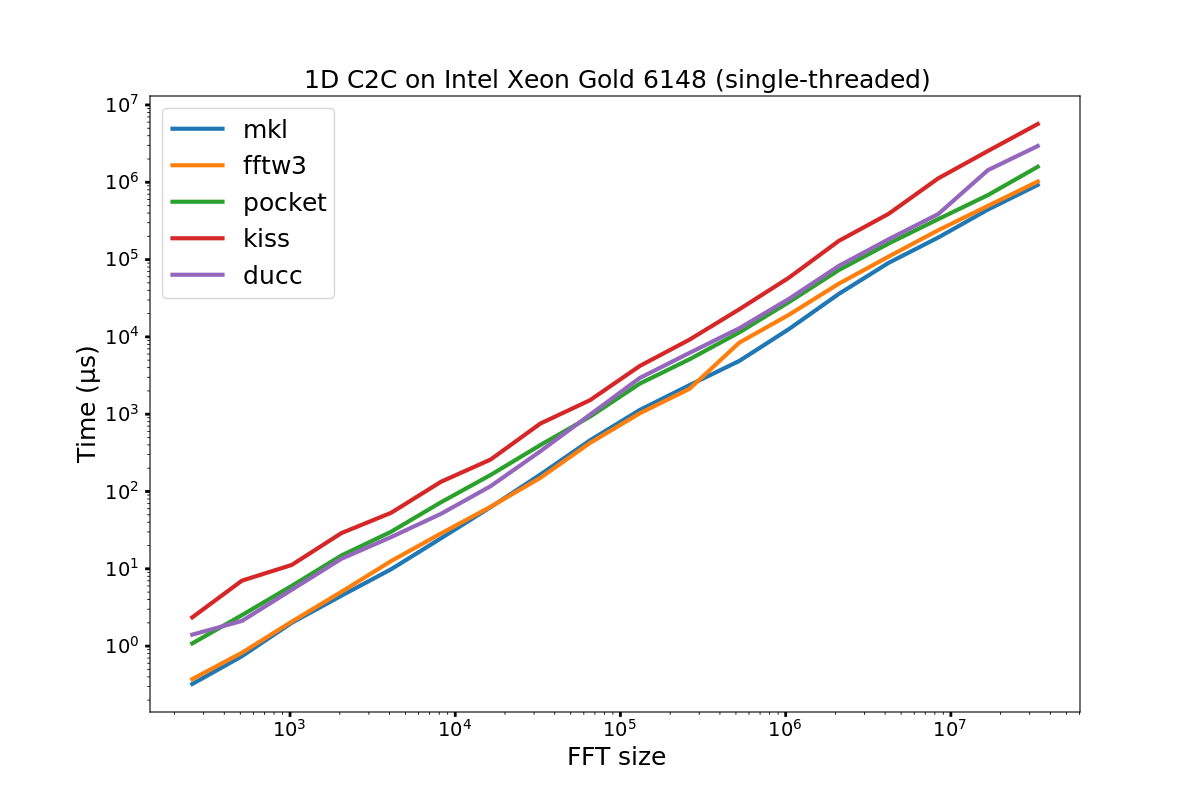
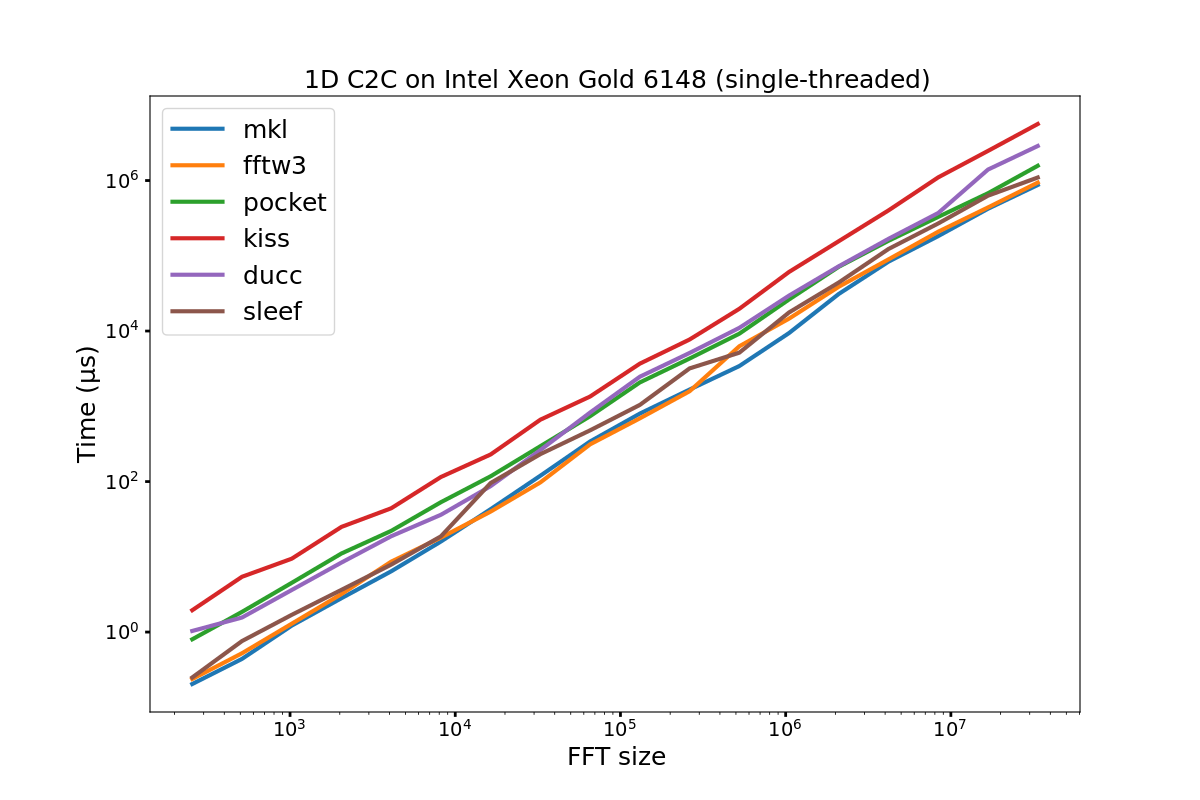
Add sleef benchmarks

diff --git a/fi/collect_results.py b/fi/collect_results.py
@@ -16,7 +16,7 @@ mainfont = {
 }
 
 arches = ['rome', 'skylake', 'icelake']
-implementations = ['mkl', 'fftw3', 'mkl-omp', 'fftw3-omp', 'pocket', 'kiss', 'ducc', 'ducc-omp']
+implementations = ['mkl', 'fftw3', 'mkl-omp', 'fftw3-omp', 'pocket', 'kiss', 'ducc', 'ducc-omp', 'sleef', 'sleef-omp']
 
 cpu_data = {
     'rome': 'AMD EPYC 7742',
@@ -54,6 +54,7 @@ def plot_st_dim(dim: int):
             sizes, _, timings = params
             if len(sizes):
                 plt.loglog(sizes, timings, label=impl, linewidth=3)
+
         plt.title(f"{dim}D C2C on {cpu_data[arch]} (single-threaded)", fontdict=mainfont)
         plt.xlabel("FFT size", fontdict=mainfont)
         plt.ylabel("Time (µs)", fontdict=mainfont)

diff --git a/README.md b/README.md
@@ -5,12 +5,11 @@ FFTW3 run in FFTW_MEASURE mode. FFTW_PATIENT is death, and I wanted to give it a
     --enable-avx2 --enable-avx512 --disable-kcvi --disable-vsx \
     --disable-avx-128-fma --enable-fma
 ```
-using `gcc 12.2.0`. All benchmarks are compiled with native instructions enabled: `-march=native -O3`
+using `gcc 12.2.0`. All benchmarks are compiled with native instructions enabled: `-march=native -O3`.
 
-| MKL      | FFTW   | KISS    | Pocket   | DUCC    |
-|----------|--------|---------|----------|---------|
-| 2023.0.0 | 3.3.10 | 131.1.0 | 81d171a6 | f7ddfda |
-
+| MKL      | FFTW   | KISS    | Pocket   | DUCC   | Sleef |
+|----------|--------|---------|----------|--------|-------|
+| 2023.1.0 | 3.3.10 | 131.1.0 | 81d171a6 | 0.32.0 | 3.5.1 |
 
 
 ## Single threaded results
